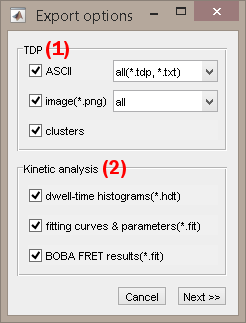
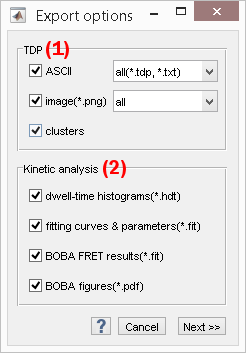
add option for pdf export of bootstrap samples in TA

Changed region(s): [[0.0, 0.0, 1.0, 1.0], [0.9106, 0.4334, 0.939, 0.5263], [0.7683, 0.6811, 0.8252, 0.7121]]

diff --git a/docs/output-files/pdf-transition-analysis-bootstrap-plots.md b/docs/output-files/pdf-transition-analysis-bootstrap-plots.md
@@ -1,0 +1,57 @@
+---
+layout: default
+title: (*.pdf) Transition analysis bootstrap plots
+parent: /output-files.html
+nav_order: 22
+nav_exclude: 1
+---
+
+<img src="../assets/images/logos/logo-output-files_400px.png" width="170" style="float:right; margin-left: 15px;"/>
+
+# Transition analysis bootstrap plots
+{: .no_toc }
+
+Transition analysis bootstrap plots files are PDF files with the extension `.pdf`. They are usually found in the main`/transition_analysis/kinetics` folder.
+
+## Table of contents
+{: .no_toc .text-delta }
+
+1. TOC
+{:toc}
+
+
+---
+
+## Description
+
+Transition analysis bootstrap plots files are dwell-time-histogram-specific and show the bootstrap sample histograms with the associated exponential fit.
+
+They are created in the `/transition_analysis/kinetics` analysis sub-folder after performing an bootstrap exponential fit on dwell time histograms and exporting results from the 
+[Project management](../transition-analysis/panels/area-management.html#export-analysis-results) area of module Transition analysis.
+
+
+---
+
+## File name
+
+The file is named by the user during the export process.
+
+By default, the file is named after the selected <u>project file</u> and is appended with the extension `_[Ddd]_[j]to[j']`, where `[Ddd]` is the data type written in the file and `[j]` and `[j']` are the respective x- and y- coordinates of the transition cluster.
+
+Data types supported in dwell time fit files are:
+* `I[i]-[L]`: intensities in detection channel indexed `[i]` upon illumination with laser wavelength `[L]` nm
+* `FRET[D]to[A]`: FRET from donor emitter detected in channel indexed `[D]` to acceptor emitter detected in channel indexed `[A]`
+* `S[D]to[A]`: stoichiometry associated to donor emitter detected in channel indexed `[D]` and acceptor emitter detected in channel indexed `[A]`
+
+The extension `_[Ttt]` is added to the data type `[Ddd]` if a particular subgroup of molecules is analyzed, with `[Ttt]` the corresponding molecule tag.
+
+
+---
+
+## Structure
+
+Transition analysis bootstrap plots files contain plots of the bootstrap histogram samples and associated exponential fit.
+The fitting function is plotted in solid red line, such as:
+
+<img src="../assets/images/figures/output-boba-exp.png" >
+

diff --git a/docs/output-files/pdf-histogram-analysis-bootstrap-plots.md b/docs/output-files/pdf-histogram-analysis-bootstrap-plots.md
@@ -1,6 +1,6 @@
 ---
 layout: default
-title: (*.pdf) Histogram analysis figures
+title: (*.pdf) Histogram analysis bootstrap plots
 parent: /output-files.html
 nav_order: 22
 nav_exclude: 1
@@ -8,10 +8,10 @@ nav_exclude: 1
 
 <img src="../assets/images/logos/logo-output-files_400px.png" width="170" style="float:right; margin-left: 15px;"/>
 
-# Histogram analysis figure files
+# Histogram analysis bootstrap plots
 {: .no_toc }
 
-Histogram analysis figure files are PDF files with the extension `.pdf`. They are usually found in the main`/histogram_analysis` folder.
+Histogram analysis bootstrap plots files are PDF files with the extension `.pdf`. They are usually found in the main`/histogram_analysis` folder.
 
 ## Table of contents
 {: .no_toc .text-delta }
@@ -24,7 +24,7 @@ Histogram analysis figure files are PDF files with the extension `.pdf`. They ar
 
 ## Description
 
-Histogram analysis figure files are data-specific and contain bootstrap histogram and corresponding state populations.
+Histogram analysis bootstrap plots files are data-specific and contain bootstrap histogram and corresponding state populations.
 
 They are created in the `/histogram_analysis` analysis sub-folder after state population analysis combined with BOBA-FRET and when exporting results from the 
 [Project management](../histogram-analysis/panels/area-management.html#export-analysis-results) area of module Histogram analysis.
@@ -55,7 +55,7 @@ A second extension `_discr` is added when state populations determined from stat
 
 ## Structure
 
-Histogram analysis figure files contain plots of the bootstrap histogram samples and corresponding state populations.
+Histogram analysis bootstrap plots files contain plots of the bootstrap histogram samples and corresponding state populations.
 State populations are presented according to the chosen calculation method.
 
 For population calculated with thresholding, threshold positions are indicated by black vertical lines and each state population is colored in a different color such as:

diff --git a/docs/transition-analysis/functionalities/set-export-options.md b/docs/transition-analysis/functionalities/set-export-options.md
@@ -62,7 +62,7 @@ The TDP matrix can also be exported to a PNG image file by activating the option
 
 Use this panel to define the file formats to export dwell time histograms and fitting results.
 
-<img src="../../assets/images/gui/TA-area-project-management-export-kin.png" style="max-width: 218px;"/>
+<img src="../../assets/images/gui/TA-area-project-management-export-kin.png" style="max-width: 210px;"/>
 
 Dwell time histograms can be exported to ASCII 
 [.hdt files](../../output-files/hdt-dwelltime-histogram.html) by activating the options in **(a)**.
@@ -71,5 +71,7 @@ Fitting results can also be exported to separated ASCII
 [.fit files](../../output-files/fit-dwelltime-fit.html) by activating the option in **(b)**. 
 
 If the fitting 
-[Method settings](../panels/panel-state-transition-rates.html#method-settings) include BOBA-FRET, the same exported file can be appended with bootstrapping parameters and results by activating the option in **(c)**.
+[Method settings](../panels/panel-state-transition-rates.html#method-settings) include BOBA-FRET:
+* the .fit file can be appended with bootstrapping parameters and results by activating the option in **(c)**
+* plots of bootstrap histogram samples and associated fit can be exported to a multi-pages .pdf file by activating the option in **(d)**
 
